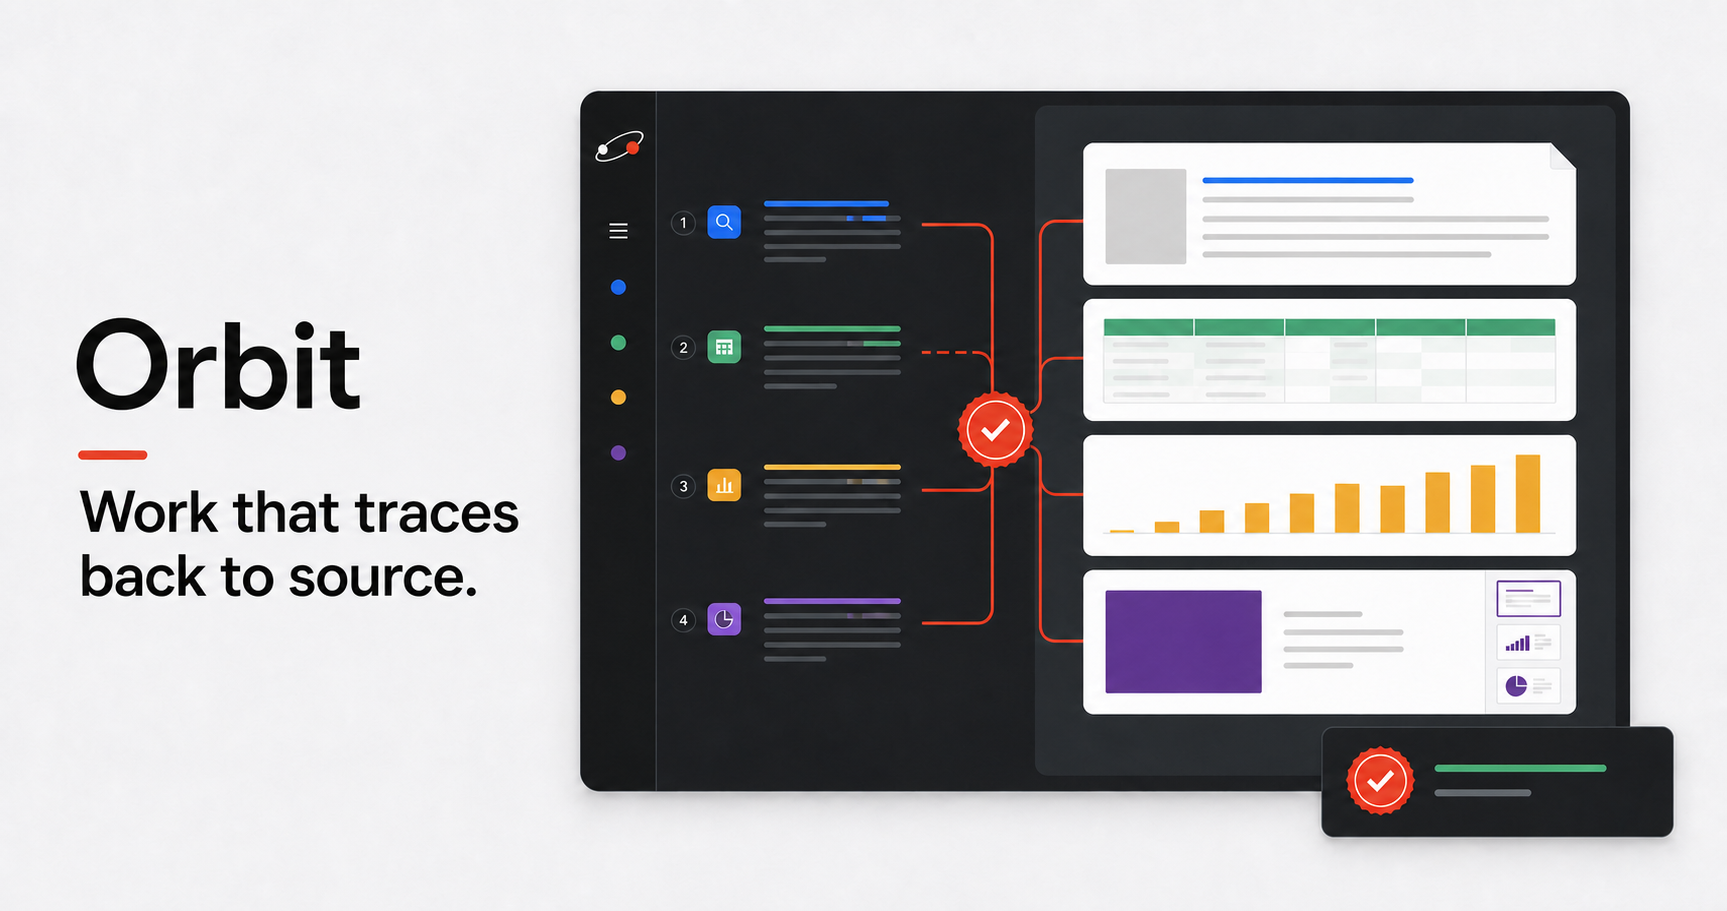
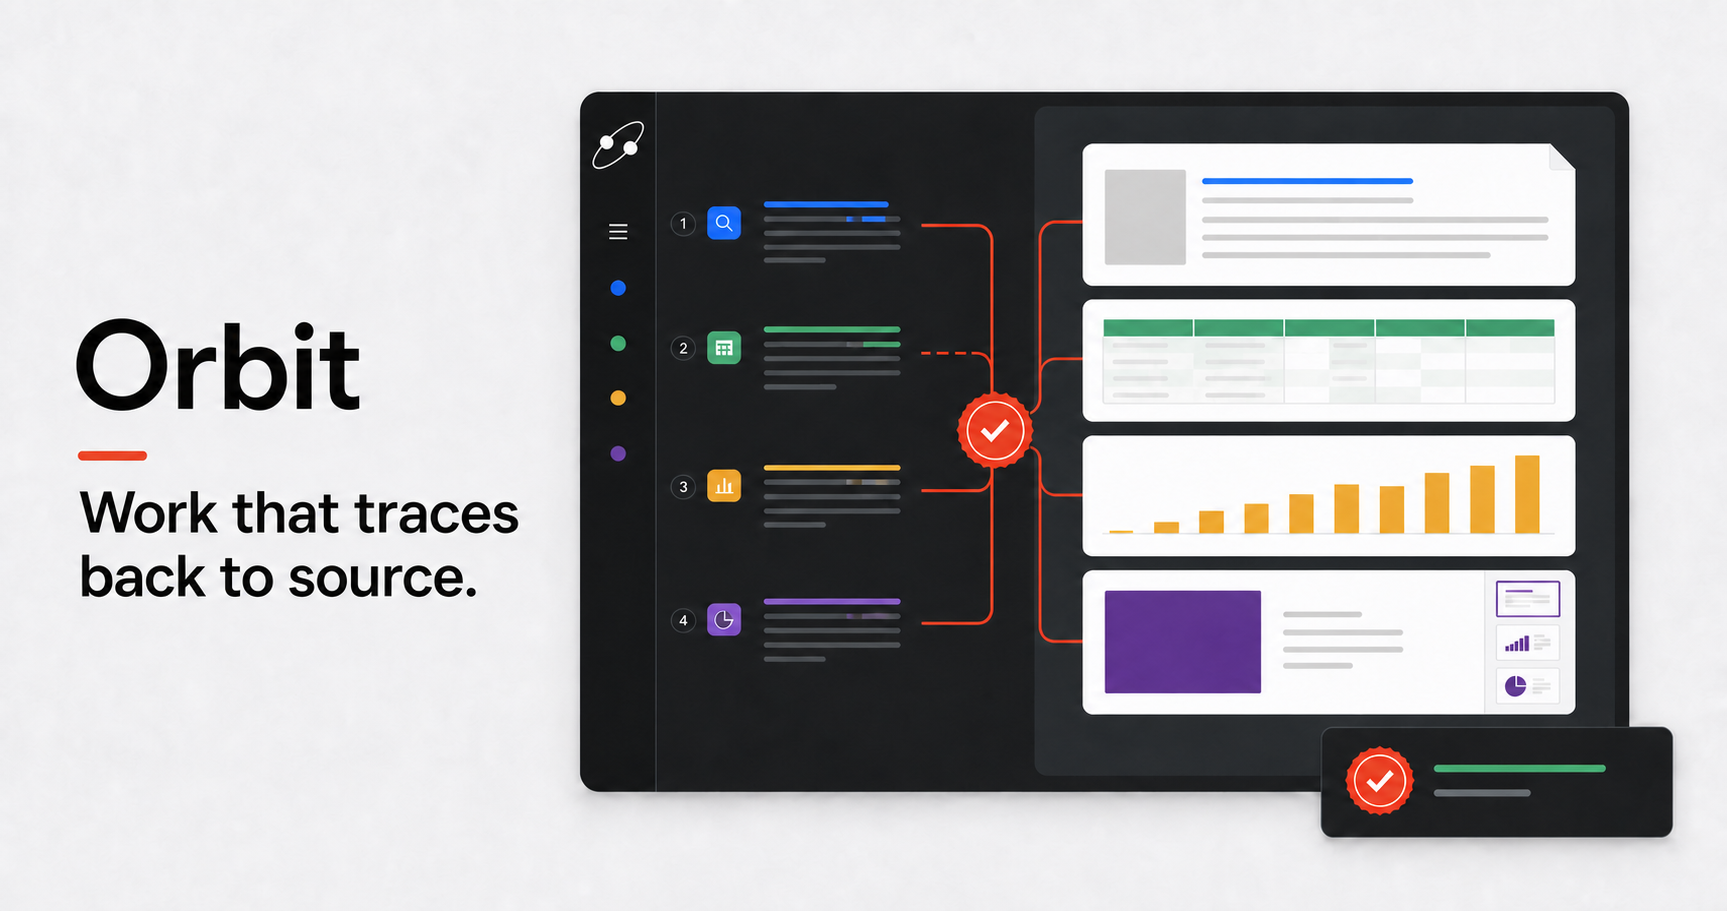
refine Orbit mark and desktop identity

diff --git a/app/components/orbit-mark.tsx b/app/components/orbit-mark.tsx
@@ -3,15 +3,31 @@ type OrbitMarkProps = {
 };
 
 /**
- * Two peers moving through one shared orbit. The geometry stays legible from
- * a compact toolbar mark through larger product surfaces.
+ * Two peers on parallel, intersecting paths. The overlapping strokes gain
+ * weight naturally at their crossings, keeping the mark legible without
+ * adding another color or decorative detail.
  */
 export function OrbitMark({ className }: OrbitMarkProps) {
   return (
     <svg className={className} viewBox="0 0 40 40" fill="none" aria-hidden="true" focusable="false">
-      <ellipse className="orbit-mark__path" cx="20" cy="20" rx="16" ry="10.25" transform="rotate(-18 20 20)" />
-      <circle className="orbit-mark__planet orbit-mark__planet--primary" cx="14" cy="20" r="4.35" />
-      <circle className="orbit-mark__planet orbit-mark__planet--companion" cx="26" cy="20" r="4.35" />
+      <ellipse
+        className="orbit-mark__path orbit-mark__path--first"
+        cx="15.6"
+        cy="21.45"
+        rx="11.75"
+        ry="7.1"
+        transform="rotate(-18 15.6 21.45)"
+      />
+      <ellipse
+        className="orbit-mark__path orbit-mark__path--second"
+        cx="24.4"
+        cy="18.55"
+        rx="11.75"
+        ry="7.1"
+        transform="rotate(-18 24.4 18.55)"
+      />
+      <circle className="orbit-mark__planet" cx="15.6" cy="21.45" r="3.35" />
+      <circle className="orbit-mark__planet" cx="24.4" cy="18.55" r="3.35" />
     </svg>
   );
 }

diff --git a/app/styles/shell.css b/app/styles/shell.css
@@ -88,12 +88,11 @@
 
 .orbit-mark__path {
   stroke: currentColor;
-  stroke-width: 1.55;
-  opacity: .24;
+  stroke-width: 1.35;
+  opacity: .32;
 }
 
-.orbit-mark__planet--primary { fill: currentColor; }
-.orbit-mark__planet--companion { fill: var(--theme-accent); }
+.orbit-mark__planet { fill: currentColor; }
 
 .brand-mark {
   width: 30px;

diff --git a/docs/decisions/0073-orbit-is-one-wordmark-with-one-two-planet-symbol.md b/docs/decisions/0073-orbit-is-one-wordmark-with-one-two-planet-symbol.md
@@ -11,9 +11,9 @@ Orbit v1.55 paired the English product name with a Chinese translation in its pr
 
 The only public product wordmark is **Orbit**. It is always written left to right, never translated, and never receives a localized suffix. Interface locales may translate the words around it, such as “Welcome to” or “欢迎来到”, while preserving the exact product name.
 
-The canonical symbol contains two equal circular bodies aligned side by side inside one thin tilted ellipse. The bodies represent a person and AI as peers; the shared path represents one source and one reviewable workflow. The mark is geometric, contains no letter, and uses no decorative gradient. In application chrome it is SVG, monochrome-first, and may give the companion body the current restrained accent color. The browser icon uses the same geometry on a light rounded field in graphite and coral.
+The canonical symbol contains two equal circular bodies aligned side by side. Each body owns one thin ellipse; both ellipses use the same size and angle, overlap, and intersect at two visible crossings. The bodies represent a person and AI as peers, while the parallel intersecting paths represent two independent actors meeting around one source and one reviewable workflow. The mark is geometric, monochrome, contains no letter, and uses no decorative gradient. At crossings, the two translucent strokes naturally gain weight instead of requiring another color or effect. The browser icon uses the same graphite geometry on a light rounded field.
 
-One `OrbitMark` React component owns the in-product geometry. First-run chrome and Workbench chrome consume that component rather than duplicating paths. `app/icon.svg` is the static browser representation. Marketing raster artwork may reproduce the geometry, but it is derivative and does not define the product mark.
+One `OrbitMark` React component owns the in-product geometry. First-run chrome and Workbench chrome consume that component rather than duplicating paths. `app/icon.svg` is the static browser representation, and its transparent 512 px derivative is the Electron window and macOS Dock icon. Marketing raster artwork may reproduce the geometry, but it is derivative and does not define the product mark.
 
 The legacy `rune-*` storage, asset, IPC, environment, theme, and exported-code contracts established in ADR 0072 remain unchanged.
 
@@ -22,4 +22,4 @@ The legacy `rune-*` storage, asset, IPC, environment, theme, and exported-code c
 - Every locale shares one stable, compact product identity.
 - Header width and bidirectional layout no longer depend on a translated suffix.
 - The mark remains crisp, theme-aware, and inexpensive to revise at any interface size.
-- Tests prohibit the retired bilingual lockup in current interface source and prove that exactly two planets appear in both reusable and static mark definitions.
+- Tests prohibit the retired bilingual lockup in current interface source and prove that exactly two planets and two intersecting paths appear in both reusable and static mark definitions.

diff --git a/CHANGELOG.md b/CHANGELOG.md
@@ -2,7 +2,7 @@
 
 All notable product releases, newest first. Each entry is a reviewed, source-owned change to the product workbench. Releases through v1.54 retain the former Rune name as historical facts.
 
-Orbit v1.56 makes **Orbit** the sole public wordmark and introduces one original two-planet product mark. The welcome chrome, Workbench header, settings version, browser metadata, package description, favicon, and social card no longer append a translated name or use the former letter tile. A shared accessible SVG component draws two equal peers inside one restrained orbit, using adaptive interface color at compact sizes; the app icon carries the same geometry in graphite and coral. All nine interface locales translate only the surrounding welcome phrase and preserve Orbit exactly. Public-brand regression tests prohibit the abandoned bilingual lockup while the v1.55 `rune-*` compatibility boundary remains unchanged. See [ADR 0073](docs/decisions/0073-orbit-is-one-wordmark-with-one-two-planet-symbol.md).
+Orbit v1.56 makes **Orbit** the sole public wordmark and introduces one original two-planet product mark. The welcome chrome, Workbench header, settings version, browser metadata, package description, favicon, Electron window/Dock icon, and social card no longer append a translated name or use the former letter tile. A shared accessible SVG component draws two equal peers on separate, parallel elliptical paths that visibly intersect; one monochrome silhouette now adapts to every interface surface and the app icon carries the same geometry. All nine interface locales translate only the surrounding welcome phrase and preserve Orbit exactly. Public-brand regression tests prohibit the abandoned bilingual lockup while the v1.55 `rune-*` compatibility boundary remains unchanged. See [ADR 0073](docs/decisions/0073-orbit-is-one-wordmark-with-one-two-planet-symbol.md).
 
 Orbit v1.55 renames the public product to **Orbit · 引力** without breaking existing device data or source files. Browser metadata, welcome and Workbench lockups, Electron application identity, every user-facing source string, all nine on-demand locale catalogs, local guide, generated Office/OpenDocument/PDF authorship, package identity, and active product documentation now use Orbit. The former `rune-*`, `.rune-assets`, `rune-asset:`, `rune:*`, `RUNE_*`, theme-id, and exported `Rune*` namespaces remain explicit compatibility contracts; release tests prevent either old public branding or accidental compatibility-key migration. See [ADR 0072](docs/decisions/0072-orbit-is-public-identity-rune-remains-a-compatibility-namespace.md).
 

diff --git a/README.md b/README.md
@@ -2,7 +2,7 @@
 
 Orbit is a source-native workspace where people and AI create documents, data, and presentations together. It keeps Markdown, CSV/JSON, DuckDB SQL, declarative Chart JSON, and semantic HTML as readable default source, then renders each artifact live in one focused workbench. Existing Deck Markdown remains supported as an explicit typed compatibility format.
 
-Orbit v1.56 simplifies the public identity to one internationally readable wordmark—**Orbit**—and replaces the former letter tile with one original two-planet mark. Two equal bodies share a restrained elliptical path to express a person and AI working alongside one another around the same source. The reusable SVG component now appears in first-run chrome and the Workbench, while a matching browser icon and English-only social card keep the identity consistent at every visible scale. All nine interface locales translate the surrounding sentence but never translate, append to, or reorder the product name. See [ADR 0073](docs/decisions/0073-orbit-is-one-wordmark-with-one-two-planet-symbol.md).
+Orbit v1.56 simplifies the public identity to one internationally readable wordmark—**Orbit**—and replaces the former letter tile with one original two-planet mark. Two equal bodies each own a restrained elliptical path; the parallel paths cross to express a person and AI working alongside one another around the same source. The reusable monochrome SVG component now appears in first-run chrome and the Workbench, while matching browser and Electron/Dock icons plus an English-only social card keep the identity consistent at every visible scale. All nine interface locales translate the surrounding sentence but never translate, append to, or reorder the product name. See [ADR 0073](docs/decisions/0073-orbit-is-one-wordmark-with-one-two-planet-symbol.md).
 
 Orbit v1.55 establishes the new public identity across the browser, desktop shell, all nine interface languages, local guide, generated files, package metadata, and release documentation. The full product lockup is **Orbit · 引力**; ordinary prose uses **Orbit**. Existing `rune-*` localStorage keys, `.rune-assets`, `rune-asset:` references, `rune:*` desktop IPC channels, `RUNE_*` deployment variables, theme ids, and exported `Rune*` implementation symbols remain deliberately unchanged so the rename does not invalidate workspaces, credentials, saved preferences, folders, or integrations. This boundary is executable in release tests and recorded in [ADR 0072](docs/decisions/0072-orbit-is-public-identity-rune-remains-a-compatibility-namespace.md).
 

diff --git a/PROGRESS.md b/PROGRESS.md
@@ -1,6 +1,6 @@
 # Progress
 
-- 2026-09-02 — Shipped Orbit v1.56 with the single English **Orbit** wordmark, a reusable two-planet SVG for first-run and Workbench chrome, a matching browser icon, English-only social artwork, and nine-locale rules that translate the surrounding interface without modifying the product name.
+- 2026-09-02 — Shipped Orbit v1.56 with the single English **Orbit** wordmark, a reusable monochrome SVG whose two planetary orbits run in parallel and intersect across first-run and Workbench chrome, matching browser and Electron/Dock icons, English-only social artwork, and nine-locale rules that translate the surrounding interface without modifying the product name.
 - 2026-09-02 — Shipped Orbit v1.55 with the **Orbit · 引力** public identity across web, desktop, nine-language UI, local guide, generated deliverables, package metadata, and active documentation while preserving every legacy `rune-*` device-data, asset, IPC, environment, theme, and implementation compatibility contract.
 - 2026-09-02 — Shipped Rune v1.54 with first-class DeepSeek discovery and verification, credential-safe duplicate collapse across known desktop sources, and bottom-baseline setup navigation that remains readable and aligned across all nine interfaces.
 - 2026-09-02 — Shipped Rune v1.53 with redacted desktop discovery for known cloud configurations and Ollama/LM Studio, explicit review → credential read → verification → encrypted-save ordering, unambiguous model-assisted/device-model/model-free language, fail-closed JSON imports, human-reviewed nine-language setup copy, 44 px compact controls, and a denser but bounded Markdown reading measure.
